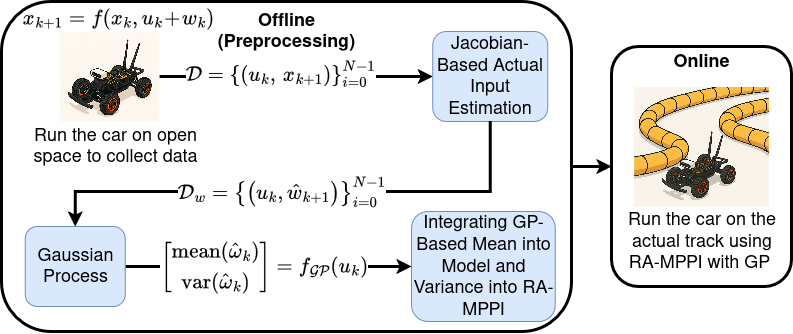
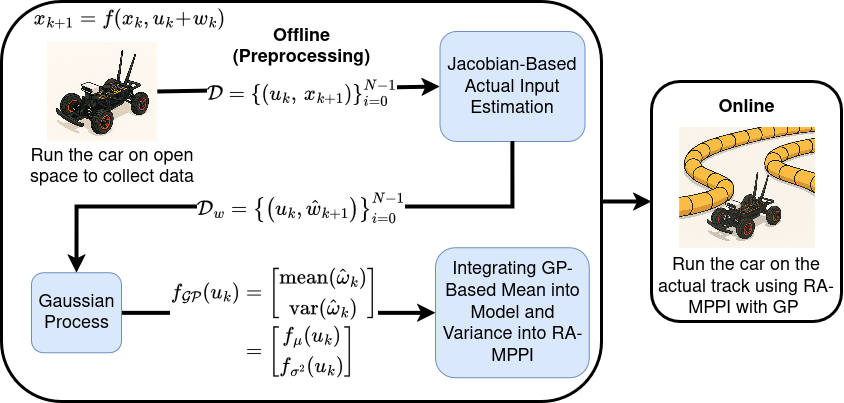
web rev

Changed region(s): [[0.0303, 0.0, 1.0, 1.0], [0.0, 0.0, 0.2724, 0.0898], [0.0, 0.9281, 0.0303, 0.9581]]

diff --git a/index.html b/index.html
@@ -154,8 +154,9 @@
       </div>
       <!--/ Abstract. -->
 
-      <div class="columns is-centered has-text-centered mb-6">
+      <div class="columns is-centered has-text-centered mt-6">
         <div class="column is-four-fifths">
+          <h2 class="title is-3">The proposed method (summarized)</h2>
           <div class="content has-text-justified">
             <figure class="image">
               <img src="./static/images/ramppi_with_gp_framework2.png"
@@ -170,30 +171,176 @@
       </div>
 
 
-      <!-- Paper video. -->
-      <div class="columns is-centered has-text-centered mt-6">
+      <div class="columns is-centered has-text-centered">
         <div class="column is-four-fifths">
-          <h2 class="title is-3">F1TENTH Gazebo Simulation Evaluation</h2>
-          <div class="publication-video">
-            <iframe src="https://www.youtube.com/embed/wznnwawFi6k?rel=0&amp;showinfo=0" frameborder="0"
-              allow="autoplay; encrypted-media" allowfullscreen></iframe>
+          <h3 class="title is-4">Offline</h3>
+          <div class="content has-text-justified">
+            <ol>
+              <li>
+                <strong>Collect data in open space.</strong>
+                Drive the robot in open space manually or with a simple controller (e.g., baseline MPPI) at
+                speeds/trajectories
+                similar to the
+                target task and log pairs
+                \( (u_k, x_{k+1}) \) to form the dataset \( \mathcal{D}=\{(u_k,x_{k+1})\}_{k=0}^{N-1} \).
+              </li>
+
+              <li>
+                <strong>Estimate actual input and lumped uncertainty (Jacobian-based).</strong>
+                For each sample \(k\), initialize \(u_{\mathrm{act},k}^{(0)} = u_k\) and iterate:
+                <div class="list-middle-wrap content-tight">
+                  <ol class="list-middle">
+                    <li>\(\hat{x}_{k+1}^{(i)} = f(x_k,\;u_{\mathrm{act},k}^{(i)})\)</li>
+                    <li>\(\Delta x_k^{(i)} = x_{k+1} - \hat{x}_{k+1}^{(i)}\)</li>
+                    <li>\(\delta u^{(i)} = J\!\big(x_k,u_{\mathrm{act},k}^{(i)}\big)^{\dagger}\,\Delta x_k^{(i)}\)</li>
+                    <li>\(u_{\mathrm{act},k}^{(i+1)} = u_{\mathrm{act},k}^{(i)} + \alpha\,\delta u^{(i)},\ (0<\alpha\le
+                        1)\)</li>
+                  </ol>
+                </div>
+                where \(J=\partial f/\partial u\) and \(^{\dagger}\) denotes the pseudo-inverse. After
+                convergence, compute the lumped input-channel uncertainty
+                \( \hat{w}_k = u_k - \hat{u}_{\mathrm{act},k} \), and build
+                \( \mathcal{D}_w=\{(u_k,\hat{w}_k)\}_{k=0}^{N-1} \).
+              </li>
+
+              <li>
+                <strong>Train Gaussian Processes per input channel.</strong>
+                Fit \(n_u\) independent GPs (RBF kernel) on \( \mathcal{D}_w \) to learn \( u \mapsto w \).
+                Hyperparameters (e.g., \( \sigma_f, \ell \)) are optimized via negative log marginal likelihood
+                minimization.
+                The trained models return, for any input \(u\),
+                a <em>mean</em> \( f_{\mu}(u) \) and <em>variance</em> \( f_{\sigma^2}(u) \) of the uncertainty:
+                \( f_{\mathcal{GP}}(u) \sim \mathcal{N}\!\big(f_{\mu}(u),\,f_{\sigma^2}(u)\big) \).
+              </li>
+            </ol>
+          </div>
+        </div>
+      </div>
+
+      <div class="columns is-centered has-text-centered mb-6">
+        <div class="column is-four-fifths">
+          <h3 class="title is-4">Online</h3>
+          <div class="content has-text-centered">
+            The block diagram below shows a simplified overview of the proposed online algorithm; full details are
+            provided in the paper.<br>
+            <figure class="image">
+              <img src="./static/images/gpramppi_online.png"
+                alt="Framework diagram of GP-RAMPPI showing integration of Gaussian Process model into the RA-MPPI controller."
+                loading="lazy">
+              <figcaption class="has-text-centered mt-2" style="font-style: normal;">
+                FIGURE 2: Simplified overview of the proposed online algorithm.
+              </figcaption>
+            </figure>
           </div>
 
         </div>
       </div>
 
-      <div class="columns is-centered has-text-centered mb-6 ">
+
+      <!-- Paper video. -->
+      <div class="columns is-centered has-text-centered mt-6">
         <div class="column is-four-fifths">
-          <p>
-            Model, parameters, and result's table can be seen in the paper.
-          </p>
+          <h2 class="title is-3">Application to Mobile Robot</h2>
+          <h3 class="title is-4">F1TENTH</h3>
+        </div>
+      </div>
+
+
+      <!-- Paper video. -->
+      <div class="columns is-centered has-text-centered mb-6">
+        <div class="column is-four-fifths">
+          <h4 class="title is-5">Model</h4>
+          <div class="content list-middle-wrap content-tight">
+            <ul class="list-middle">
+              <li>
+                The robot is modeled as a bicycle model with state
+                \( x = (p_x, p_y, \theta) \) (position and heading).
+              </li>
+              <li>
+                The control inputs are \( u = (v, \delta) \), where
+                \(v\) is the velocity and \(\delta\) is the steering angle.
+              </li>
+              <li>
+                With sampling time \(T_s\), the discrete-time kinematics are:
+                $$\begin{aligned}
+                p_{x,k+1} &= p_{x,k} + T_s\, v_k \cos(\theta_k),\\
+                p_{y,k+1} &= p_{y,k} + T_s\, v_k \sin(\theta_k),\\
+                \theta_{k+1} &= \theta_k + T_s\,\frac{v_k}{L}\,\tan(\delta_k),
+                \end{aligned}$$
+                where \(L\) is the wheelbase of the vehicle (constant for the F1TENTH car).
+              </li>
+            </ul>
+          </div>
+        </div>
+      </div>
+
+      <!-- Paper video. -->
+      <div class="columns is-centered has-text-centered">
+        <div class="column is-four-fifths">
+          <h3 class="title is-4">Gazebo Simulation Evaluation</h3>
+          <h4 class="title is-5">Parameters</h4>
+          <div class="content list-middle-wrap content-tight">
+            <ul class="list-middle">
+              <li><strong>Sampling rate:</strong> 50.0 Hz (T<sub>s</sub> = 0.02 s)</li>
+              <li><strong>Time horizon:</strong> 1.5 s (Prediction horizon K = 75 steps)</li>
+              <li><strong>Number of trajectories:</strong> M = 256</li>
+              <li><strong>Exploration variance:</strong> γ = 1200.0</li>
+              <li><strong>Control covariance:</strong> Σ<sub>v</sub> = diag(0.3², 0.4²)</li>
+              <li><strong>Inverse temperature:</strong> λ = 0.01</li>
+              <li><strong>State weights:</strong> W = diag(1, 1, 0)</li>
+              <li><strong>Control weights:</strong> R = λ Σ<sub>v</sub><sup>−1/2</sup></li>
+              <li><strong>Collision cost:</strong> C<sub>col</sub> = 10⁷</li>
+              <li><strong>Max velocity:</strong> 3 m/s</li>
+              <li><strong>Max steer:</strong> 1 rad</li>
+              <li><strong>RA-MPPI number of aware trajectories:</strong> N = 16</li>
+              <li><strong>RA-MPPI weight parameters:</strong> A = 0.1, B = 0.9</li>
+            </ul>
+          </div>
+        </div>
+      </div>
+
+      <!-- Paper video. -->
+      <div class="columns is-centered has-text-centered">
+        <div class="column is-four-fifths">
+          <div class="publication-video">
+            <iframe src="https://www.youtube.com/embed/wznnwawFi6k?rel=0&amp;showinfo=0" frameborder="0"
+              allow="autoplay; encrypted-media" allowfullscreen></iframe>
+          </div>
+        </div>
+      </div>
+
+      <div class="columns is-centered has-text-centered mb-6">
+        <div class="column is-four-fifths">
+          F1TENTH Gazebo simulation evaluation result's table and analysis can be seen in the paper.
         </div>
       </div>
 
       <!-- Paper video. -->
       <div class="columns is-centered has-text-centered mt-6">
         <div class="column is-four-fifths">
-          <h3 class="title is-3">F1TENTH Real-World Evaluation</h3>
+          <h3 class="title is-4">Real-World Evaluation</h3>
+          <h4 class="title is-5">Parameters</h4>
+          <div class="content list-middle-wrap content-tight">
+            <ul class="list-middle">
+              <li>
+                All components of the control stack—cost function, Jacobian-based uncertainty estimation, Gaussian
+                process (GP)
+                training, evaluation metrics, and controller parameters—remain similar to those used in simulation.
+              </li>
+              <li>
+                Only the controller's <strong>sampling rate</strong> is adjusted to 20.0 Hz
+                (T<sub>s</sub> = 0.05 s), and the <strong>control covariance</strong> is set to
+                Σ<sub>v</sub> = diag(0.3², 0.3²),
+                to accommodate differences in the hardware platform and slight variations in vehicle dynamics.
+              </li>
+            </ul>
+          </div>
+        </div>
+      </div>
+
+      <!-- Paper video. -->
+      <div class="columns is-centered has-text-centered">
+        <div class="column is-four-fifths">
           <div class="publication-video">
             <iframe src="https://www.youtube.com/embed/S-0TqapzAsU?rel=0&amp;showinfo=0" frameborder="0"
               allow="autoplay; encrypted-media" allowfullscreen></iframe>
@@ -201,30 +348,20 @@
         </div>
       </div>
 
-      <div class="columns is-centered has-text-centered mb-6 ">
+      <div class="columns is-centered has-text-centered mb-6">
         <div class="column is-four-fifths">
-          <p>
-            Model, parameters, and result's table can be seen in the paper.
-          </p>
+          F1TENTH real-world evaluation result's table and analysis can be seen in the paper.
         </div>
       </div>
+
       <!--/ Paper video. -->
+
 
       <!-- Paper video. -->
-      <div class="columns is-centered has-text-centered mt-6">
+      <div class="columns is-centered has-text-centered mt-6 mb-6">
         <div class="column is-four-fifths">
-          <h2 class="title is-3">Clearpath Jackal Gazebo Simulation Evaluation</h2>
-          <div class="publication-video">
-            <iframe src="https://www.youtube.com/embed/VFMfThjjeKU?rel=0&amp;showinfo=0" frameborder="0"
-              allow="autoplay; encrypted-media" allowfullscreen></iframe>
-          </div>
-        </div>
-      </div>
-      <!--/ Paper video. -->
-
-      <div class="columns is-centered has-text-centered">
-        <div class="column is-four-fifths">
-          <h3 class="title is-4 title-tight">Model</h3>
+          <h3 class="title is-4">Clearpath Jackal</h3>
+          <h4 class="title is-5">Model</h4>
           <div class="content list-middle-wrap content-tight">
             <ul class="list-middle">
               <li>
@@ -248,38 +385,38 @@
         </div>
       </div>
 
+
       <!-- Paper video. -->
       <div class="columns is-centered has-text-centered">
         <div class="column is-four-fifths">
-          <h3 class="title is-4 title-tight">Parameters</h3>
-          <div class="content list-middle-wrap content-tight">
-            <ul class="list-middle">
-              <li><strong>Sampling rate:</strong> 50.0 Hz (T<sub>s</sub> = 0.02 s)</li>
-              <li><strong>Time horizon:</strong> 3 s (Prediction horizon K = 150 steps)</li>
-              <li><strong>Number of trajectories:</strong> M = 256</li>
-              <li><strong>Exploration variance:</strong> γ = 1200.0</li>
-              <li><strong>Control covariance:</strong> Σ<sub>v</sub> = diag(0.5², 1.0²)</li>
-              <li><strong>Inverse temperature:</strong> λ = 0.01</li>
-              <li><strong>State weights:</strong> W = diag(1, 1, 0)</li>
-              <li><strong>Control weights:</strong> R = λ Σ<sub>v</sub><sup>−1/2</sup></li>
-              <li><strong>Collision cost:</strong> C<sub>col</sub> = 10⁷</li>
-              <li><strong>Max velocity:</strong> 3.5 m/s</li>
-              <li><strong>Max angular velocity:</strong> 1.5 rad/s</li>
-              <li><strong>RA-MPPI number of aware trajectories:</strong> N = 16</li>
-              <li><strong>RA-MPPI weight parameters:</strong> A = 0.1, B = 0.9</li>
-            </ul>
-
-          </div>
+          <h3 class="title is-4">Gazebo Simulation</h3>
         </div>
       </div>
 
+
+
+      <!-- Paper video. -->
       <div class="columns is-centered has-text-centered">
         <div class="column is-four-fifths">
-          <h3 class="title is-4 title-tight">Result</h3>
+          <div class="publication-video">
+            <iframe src="https://www.youtube.com/embed/VFMfThjjeKU?rel=0&amp;showinfo=0" frameborder="0"
+              allow="autoplay; encrypted-media" allowfullscreen></iframe>
+          </div>
+        </div>
+      </div>
+      <!--/ Paper video. -->
+
+
+
+
+      <div class="columns is-centered has-text-centered">
+        <div class="column is-four-fifths">
+          <h4 class="title is-5">Result</h4>
           <div class="content has-text-justified content-tight">
             <figure class="image">
               <figcaption class="has-text-centered" style="font-style: normal;">
-                TABLE 1: Number of Laps Completed in Each Trial and Total Laps per Method. Each sub-table corresponds to
+                TABLE 1: Number of Laps Completed in Each Trial and Total Laps per Method. Each sub-table corresponds
+                to
                 one of the two scenarios:
                 (a) Jackal without obstacles,
                 (b) Jackal with obstacles.
@@ -296,6 +433,28 @@
               </figcaption>
               <img src="./static/images/jackal result 2.png" loading="lazy">
             </figure>
+          </div>
+        </div>
+      </div>
+
+      <div class="columns is-centered has-text-centered">
+        <div class="column is-four-fifths">
+          <h4 class="title is-5">Analysis</h4>
+          <div class="content list-middle-wrap content-tight">
+            <ul class="list-middle">
+              <li>
+                MPPI that use the <strong>GP mean</strong> tend to increase the number of completed laps
+                (especially <em>Case 5</em>) compared to the baseline MPPI methods (<em>Cases 6 and 7</em>).
+              </li>
+              <li>
+                By leveraging both the <strong>GP mean and variance</strong> (the proposed method, <em>Case 1</em>),
+                the system achieves the highest number of completed laps while maintaining competitive speed.
+              </li>
+              <li>
+                The <strong>proposed method</strong> demonstrates computation times comparable to those of
+                MPPI with \(M \times N\) trajectories and RA-MPPI (<em>Cases 2, 3, 4, and 6</em>).
+              </li>
+            </ul>
           </div>
         </div>
       </div>

diff --git a/static/css/index.css b/static/css/index.css
@@ -193,6 +193,10 @@ body {
   margin-top: 0.25rem !important;
 }
 
+.list-middle-wrap {
+  margin-top: 0 !important;
+}
+
 .MathJax_Display {
   margin: 0 !important;
   /* remove top & bottom margins */
